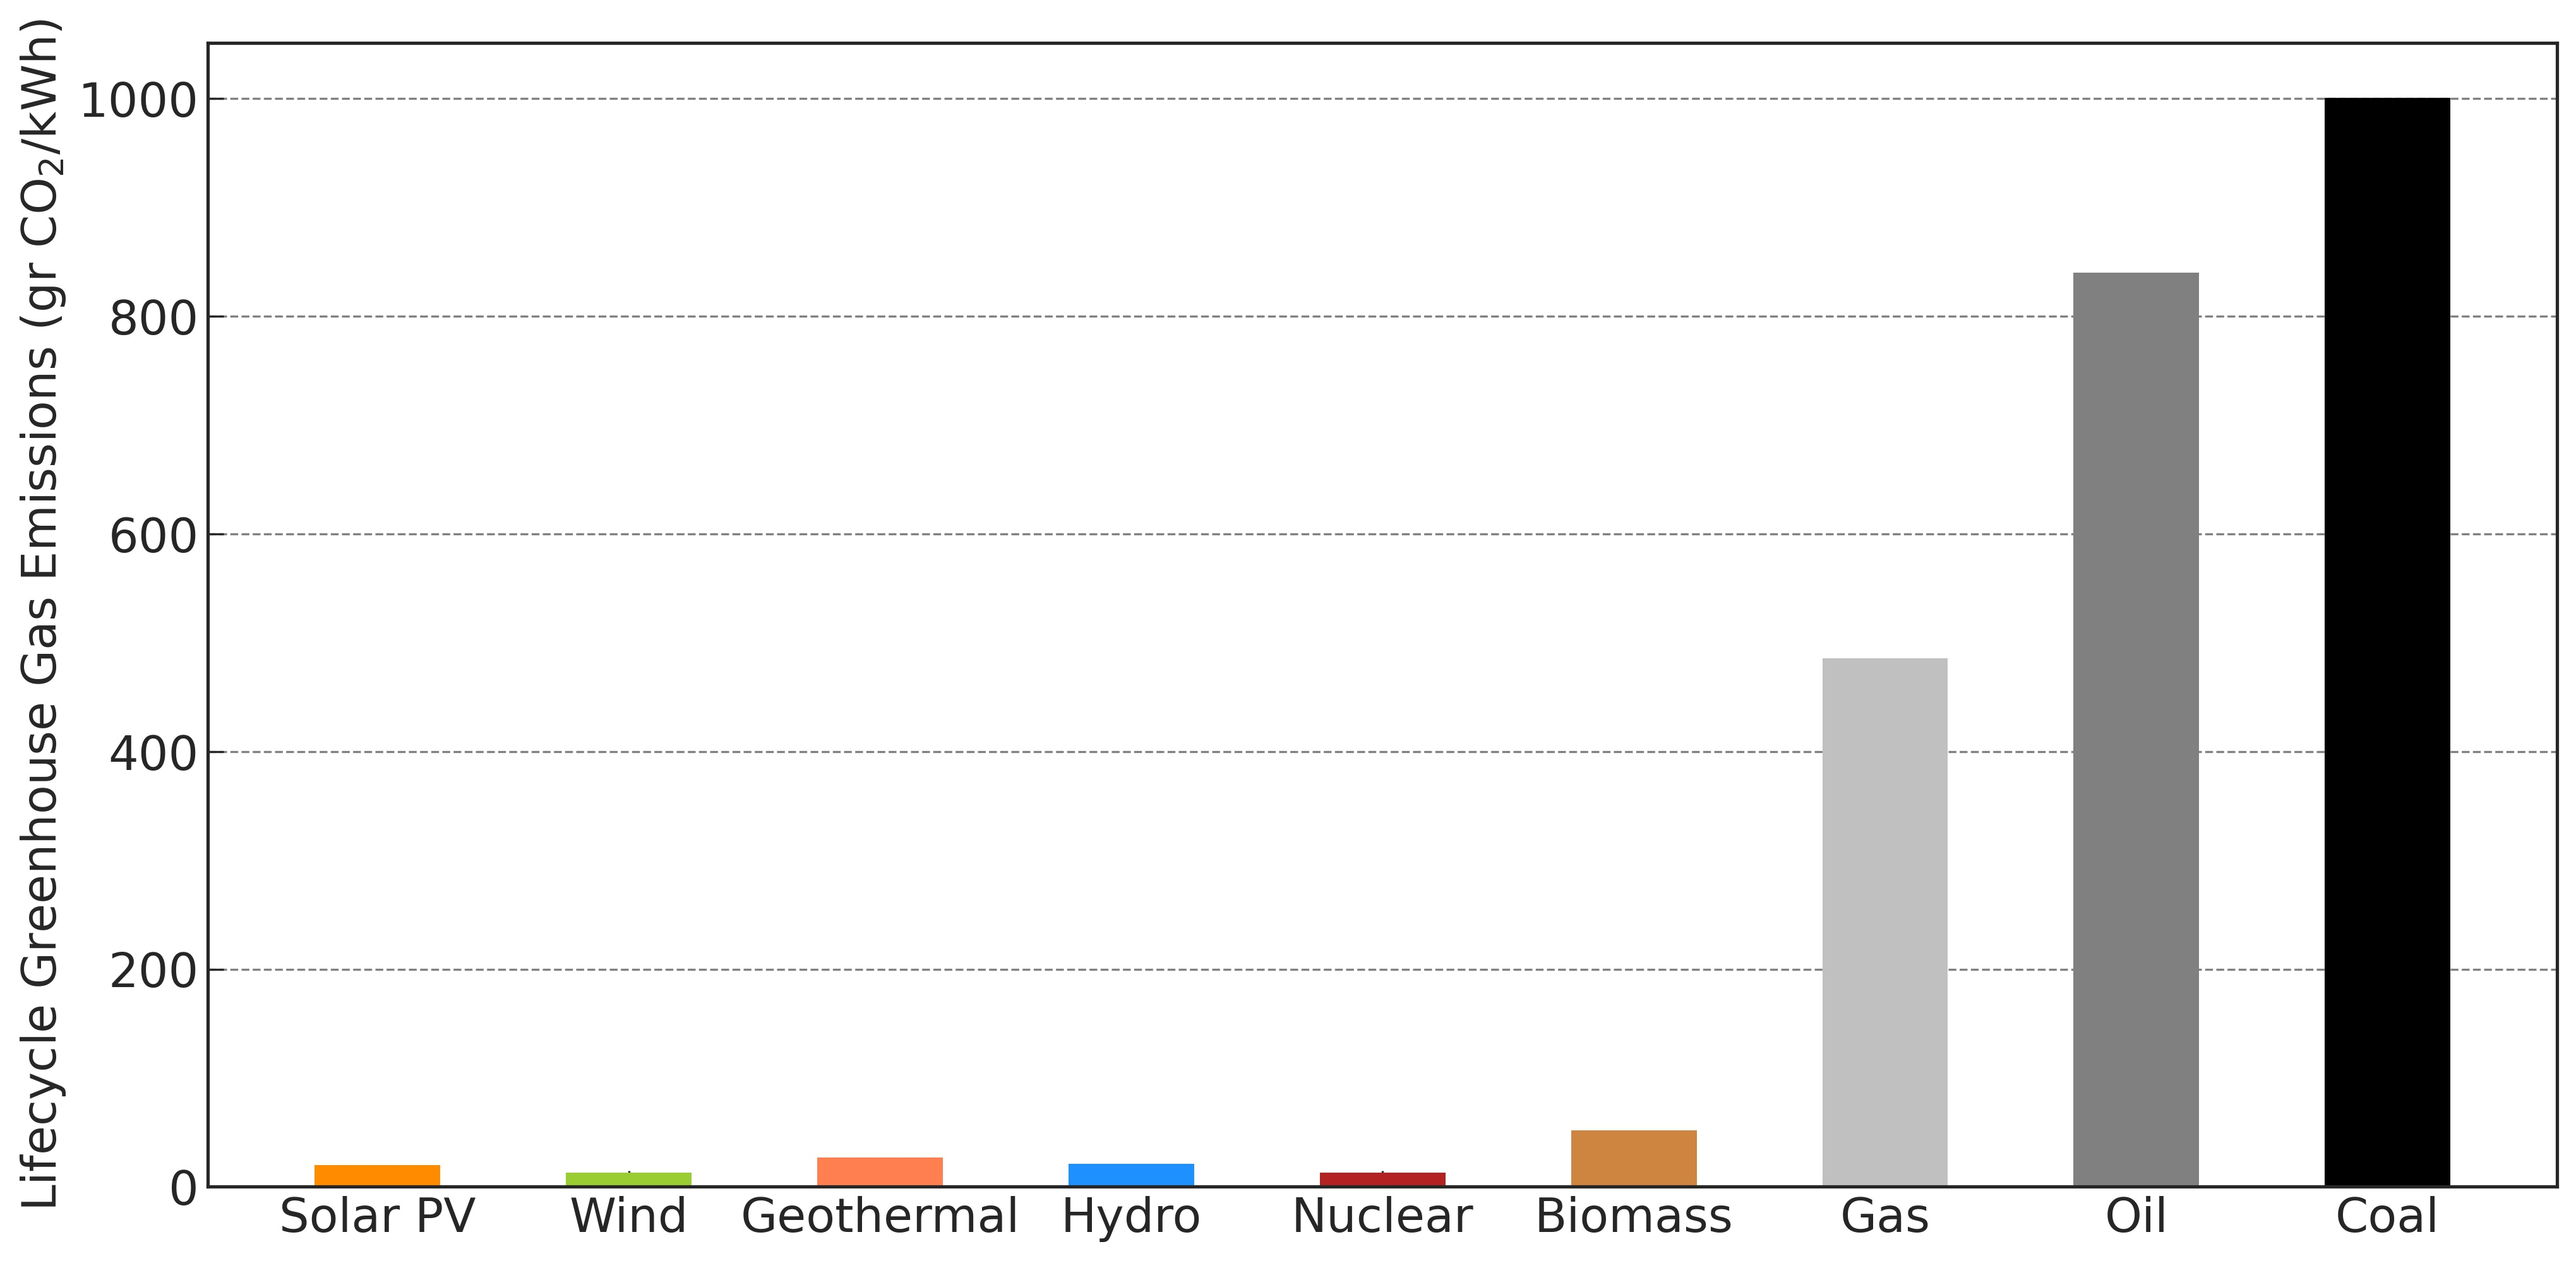
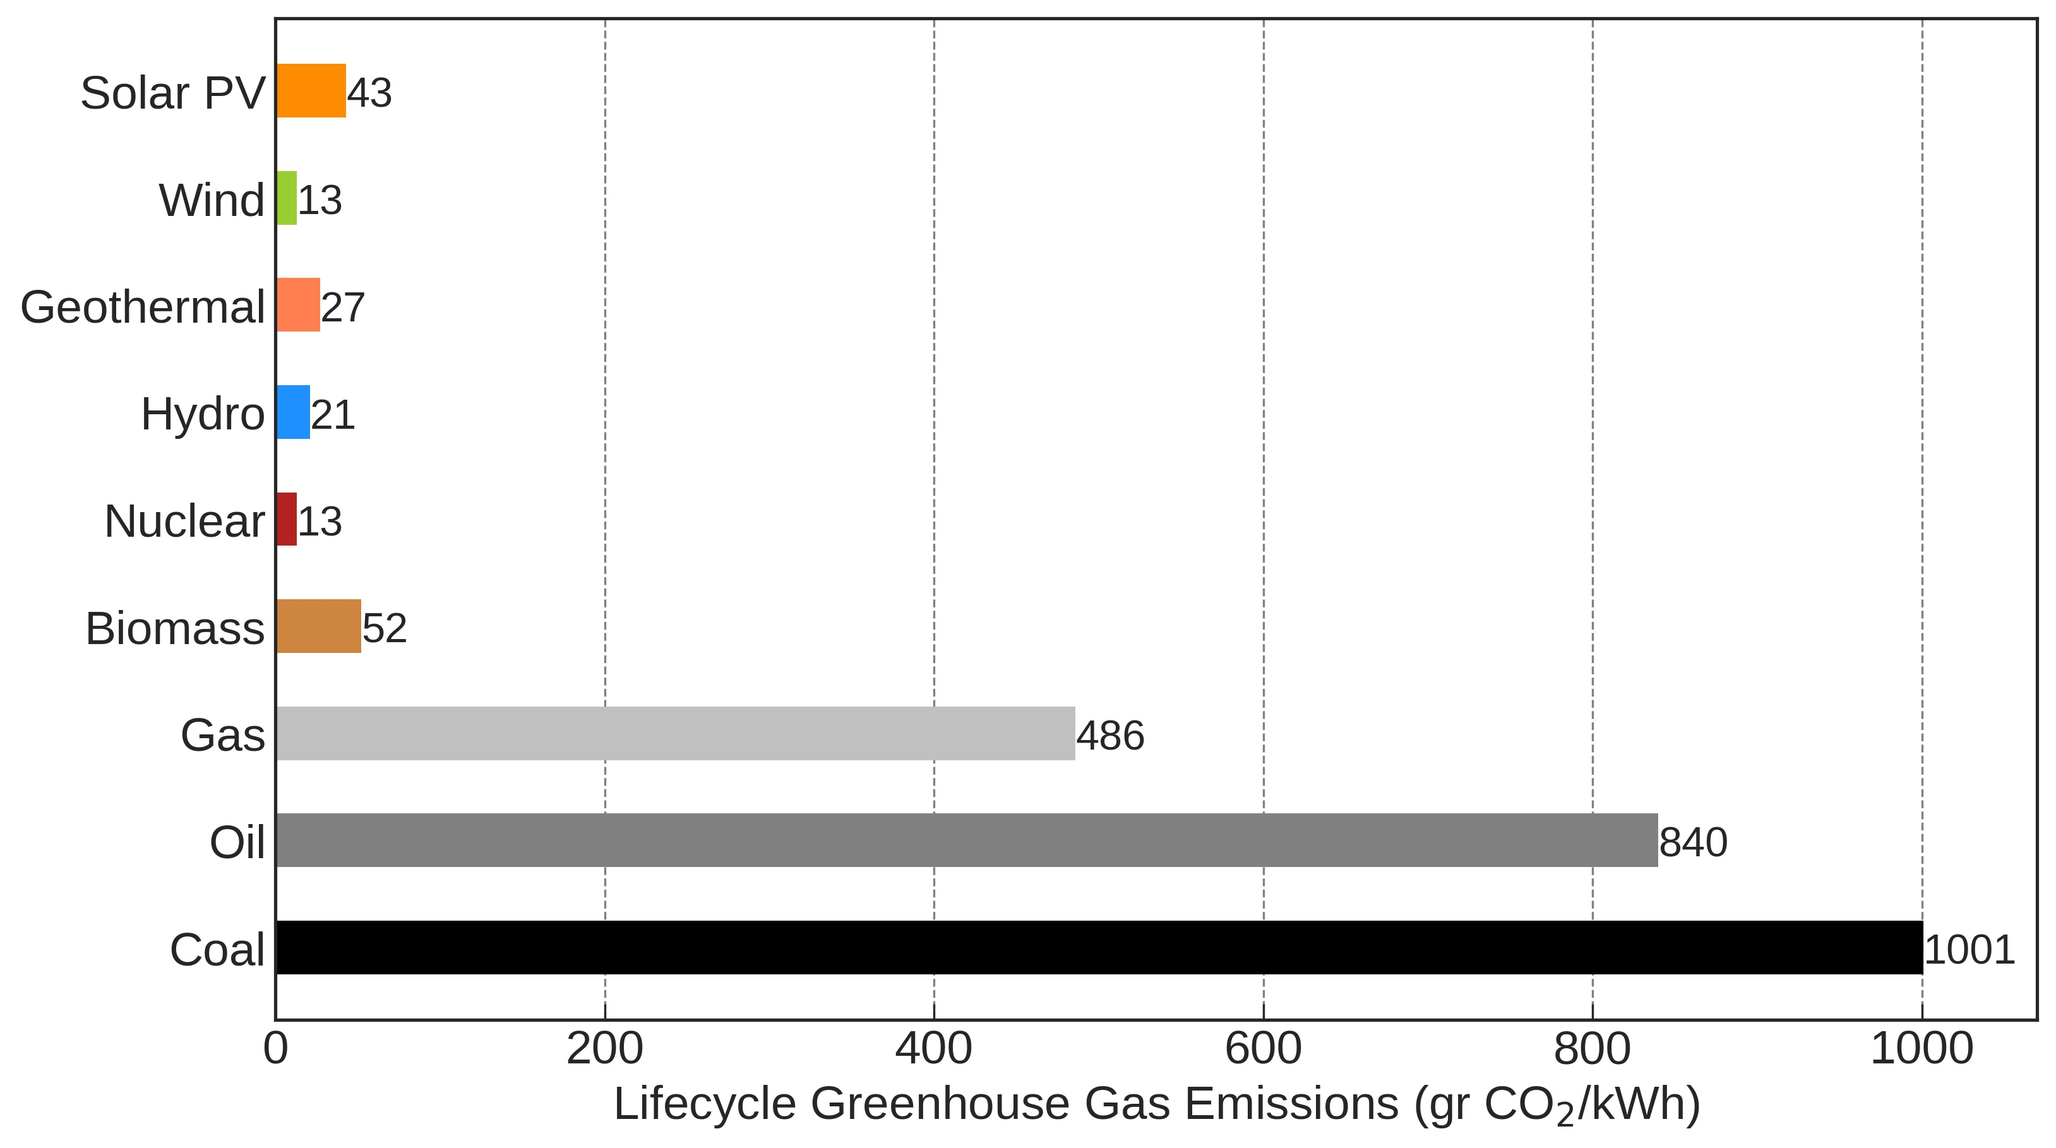
extract figures style to file

diff --git a/Figures/Chapter_1/materials_consumption.py b/Figures/Chapter_1/materials_consumption.py
@@ -7,14 +7,7 @@ import matplotlib.pyplot as plt
 import matplotlib.gridspec as gridspec
 import squarify
 
-plt.style.use('seaborn-ticks')
-plt.rcParams['axes.labelsize'] = 18
-plt.rcParams['xtick.labelsize'] = 18
-plt.rcParams['ytick.labelsize'] = 18
-plt.rcParams['xtick.direction'] = 'in'
-plt.rcParams['ytick.direction'] = 'in'
-plt.rcParams['font.family'] = 'avenir'
-plt.rcParams['axes.titlesize'] = 18
+plt.style.use(['seaborn-ticks','../pv-textbook.mplstyle'])
 
 plt.figure(figsize=(13, 5))
 gs1 = gridspec.GridSpec(1, 2)
@@ -27,29 +20,35 @@ ax1 = plt.subplot(gs1[0,0])
 
 sizes=[40.416,
        7.629,
+       5.0,
        2.951,
        0.025,
        0.133,]
 
 labels=['Glass \n 40.4 g/W', 
         'Aluminum \n 7.6 g/W',
+        'EVA \n 5.0 g/W',
         'Silicon \n 2.9 g/W',
         '',
         '',]
+
 colors=['dodgerblue',
         'firebrick',
         'yellowgreen',
+        'orange',
         'black',
         'black',]
 
-ax1.annotate('Backsheet 0.133 g/W \n Silver 0.025 g/W', 
+ax1.annotate('Backsheet 0.133 g/W \n Silver 0.025 g/W',
+             fontsize=16,
              xy=(100,100), 
-             xytext=(105,85),
+             xytext=(102,85),
              arrowprops=dict(arrowstyle="->"))
-squarify.plot(sizes=sizes, label=labels, color=colors, alpha=0.6)
+squarify.plot(sizes=sizes, label=labels, color=colors, alpha=0.6,
+              text_kwargs={'fontsize':16})
 ax1.set_xticks([])
 ax1.set_yticks([])
-ax1.set_title('Glass-backsheet module', fontsize=16)
+ax1.set_title('Glass-backsheet module')
 
 
 
@@ -59,25 +58,30 @@ FIGURE B. GLASS-GLASS MODULE
 ax2 = plt.subplot(gs1[0,1])
 
 sizes=[50.52,
+       5.0,
        2.951,
        0.025]
 
-labels=['Glass \n 40.4 g/W', 
+labels=['Glass \n 40.4 g/W',
+        'EVA \n 5.0 g/W',
         'Silicon \n 2.9 g/W',
         '']
 
 colors=['dodgerblue',
         'yellowgreen',
+        'orange',
         'black']
 
-ax2.annotate('Silver 0.025 g/W', 
-             xy=(100,100), 
+ax2.annotate('Silver 0.025 g/W',
+             fontsize=16,
+             xy=(100,100),
              xytext=(105,85),
              arrowprops=dict(arrowstyle="->"))
-squarify.plot(sizes=sizes, label=labels, color=colors, alpha=0.6)
+squarify.plot(sizes=sizes, label=labels, color=colors, alpha=0.6,
+              text_kwargs={'fontsize':16})
 ax2.set_xticks([])
 ax2.set_yticks([])
-ax2.set_title('Glass-glass module', fontsize=16)
+ax2.set_title('Glass-glass module')
 
 
 plt.savefig('figures/materials_consumption.jpg', dpi=300, bbox_inches='tight')  

diff --git a/Figures/Chapter_1/GHG_different_technologies.py b/Figures/Chapter_1/GHG_different_technologies.py
@@ -6,17 +6,9 @@
 import pandas as pd
 import matplotlib.pyplot as plt
 import matplotlib.gridspec as gridspec
+plt.style.use(['seaborn-ticks','../pv-textbook.mplstyle'])
 
-plt.style.use('seaborn-ticks')
-plt.rcParams['axes.labelsize'] = 18
-plt.rcParams['xtick.labelsize'] = 18
-plt.rcParams['ytick.labelsize'] = 18
-plt.rcParams['xtick.direction'] = 'in'
-plt.rcParams['ytick.direction'] = 'in'
-plt.rcParams['font.family'] = 'avenir'
-plt.rcParams['axes.titlesize'] = 18
-
-plt.figure(figsize=(16, 8))
+plt.figure(figsize=(12, 7))
 gs1 = gridspec.GridSpec(1, 1)
 gs1.update(wspace=0.4, hspace=0.2)
 
@@ -31,17 +23,17 @@ colors={'Solar': 'darkorange',
         'Oil': 'gray',
         'Gas':'silver'}
 
-techs=['Solar PV', 
-       'Wind',
-       'Geothermal',
-       'Hydro',
-       'Nuclear',
-       'Biomass',
-       'Gas',
+techs=['Coal',
        'Oil',
-       'Coal']
+       'Gas',
+       'Biomass',
+       'Nuclear',
+       'Hydro',
+       'Geothermal',
+       'Wind',
+       'Solar PV']
 
-GHG={'Solar PV':20, #43
+GHG={'Solar PV':43, 
      'Wind': 13,
      'Biomass':52,
      'Geothermal':27,
@@ -53,14 +45,14 @@ GHG={'Solar PV':20, #43
 
 ax1 = plt.subplot(gs1[0,0])
 for i,tech in enumerate(techs):
-    ax1.bar(i,GHG[tech], 
-            width=0.5,
+    ax1.barh(i,GHG[tech], 
+             height=0.5,
             color=colors[tech])
-    
-#ax1.set_ylim(0,210)
-ax1.set_ylabel('Lifecycle Greenhouse Gas Emissions (gr CO$_2$/kWh)')
-ax1.set_xticks(range(0,len(techs)))
-ax1.set_xticklabels(techs)
-ax1.grid(color='grey', linestyle='--', axis='y', which='both')
+    ax1.text(GHG[tech], i-0.15, GHG[tech], fontsize=16)
+ax1.set_xlim(0,1070)
+ax1.set_xlabel('Lifecycle Greenhouse Gas Emissions (gr CO$_2$/kWh)')
+ax1.set_yticks(range(0,len(techs)))
+ax1.set_yticklabels(techs)
+ax1.grid(color='grey', linestyle='--', axis='x', which='both')
 
 plt.savefig('figures/GHG_technologies.jpg', dpi=300, bbox_inches='tight')  

diff --git a/Figures/Chapter_1/historical_energy_generation_expansion.py b/Figures/Chapter_1/historical_energy_generation_expansion.py
@@ -6,15 +6,8 @@
 import pandas as pd
 import matplotlib.pyplot as plt
 import matplotlib.gridspec as gridspec
+plt.style.use(['seaborn-ticks','../pv-textbook.mplstyle'])
 
-plt.style.use('seaborn-ticks')
-plt.rcParams['axes.labelsize'] = 18
-plt.rcParams['xtick.labelsize'] = 18
-plt.rcParams['ytick.labelsize'] = 18
-plt.rcParams['xtick.direction'] = 'in'
-plt.rcParams['ytick.direction'] = 'in'
-plt.rcParams['font.family'] = 'avenir'
-plt.rcParams['axes.titlesize'] = 18
 plt.figure(figsize=(8, 8))
 gs1 = gridspec.GridSpec(1, 1)
 gs1.update(wspace=0.2, hspace=0.2)
@@ -22,7 +15,7 @@ gs1.update(wspace=0.2, hspace=0.2)
 ax1 = plt.subplot(gs1[0,0])
 colors={'Solar': 'darkorange',
         'Wind': 'yellowgreen',
-        'Geo Biomass Other': 'brown', #'coral',
+        'Geo Biomass Other': 'brown',
         'Hydro':'dodgerblue',
         'Nuclear': 'firebrick',
         'Coal':'black',

diff --git a/Figures/Chapter_1/annual_and_cumulative_capacity.py b/Figures/Chapter_1/annual_and_cumulative_capacity.py
@@ -6,15 +6,7 @@
 import pandas as pd
 import matplotlib.pyplot as plt
 import matplotlib.gridspec as gridspec
-
-plt.style.use('seaborn-ticks')
-plt.rcParams['axes.labelsize'] = 18
-plt.rcParams['xtick.labelsize'] = 18
-plt.rcParams['ytick.labelsize'] = 18
-plt.rcParams['xtick.direction'] = 'in'
-plt.rcParams['ytick.direction'] = 'in'
-plt.rcParams['font.family'] = 'avenir'
-plt.rcParams['axes.titlesize'] = 18
+plt.style.use(['seaborn-ticks','../pv-textbook.mplstyle'])
 
 plt.figure(figsize=(16, 8))
 gs1 = gridspec.GridSpec(1, 2)
